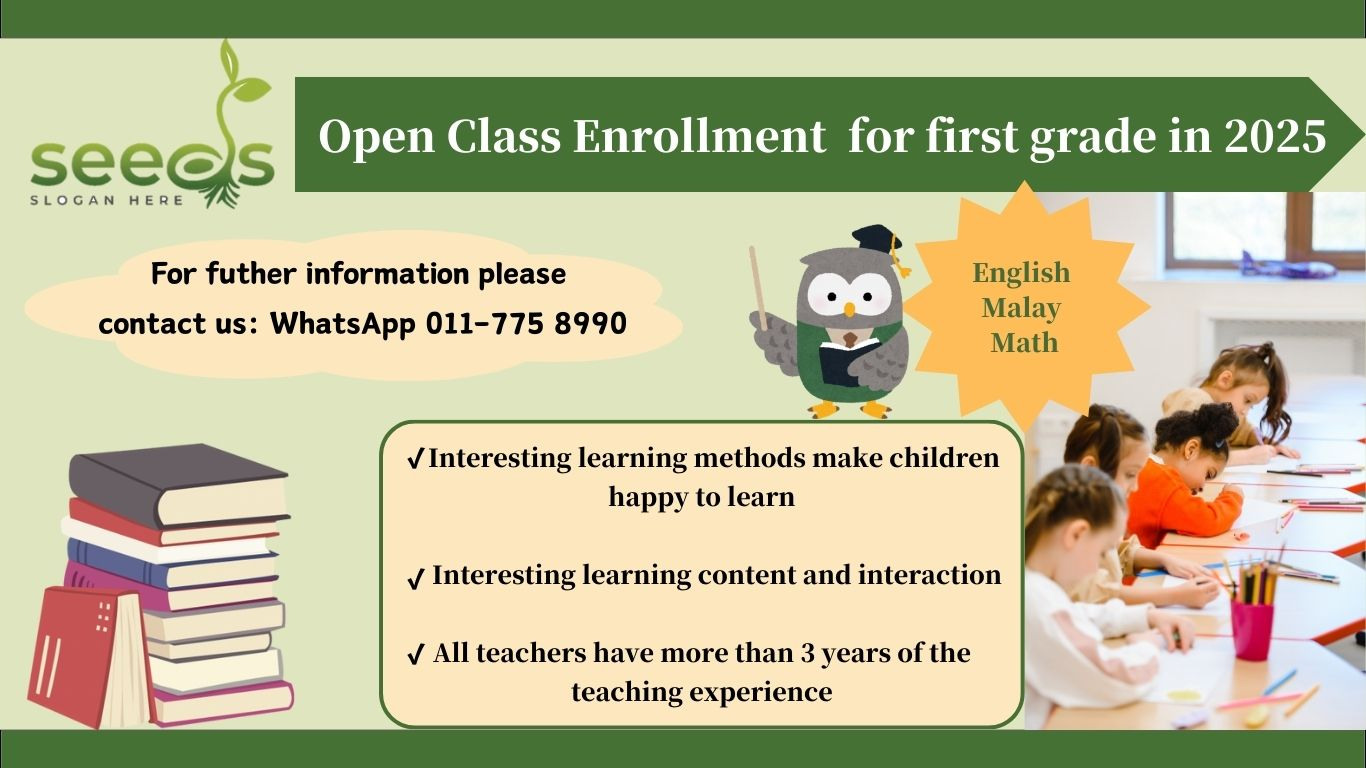
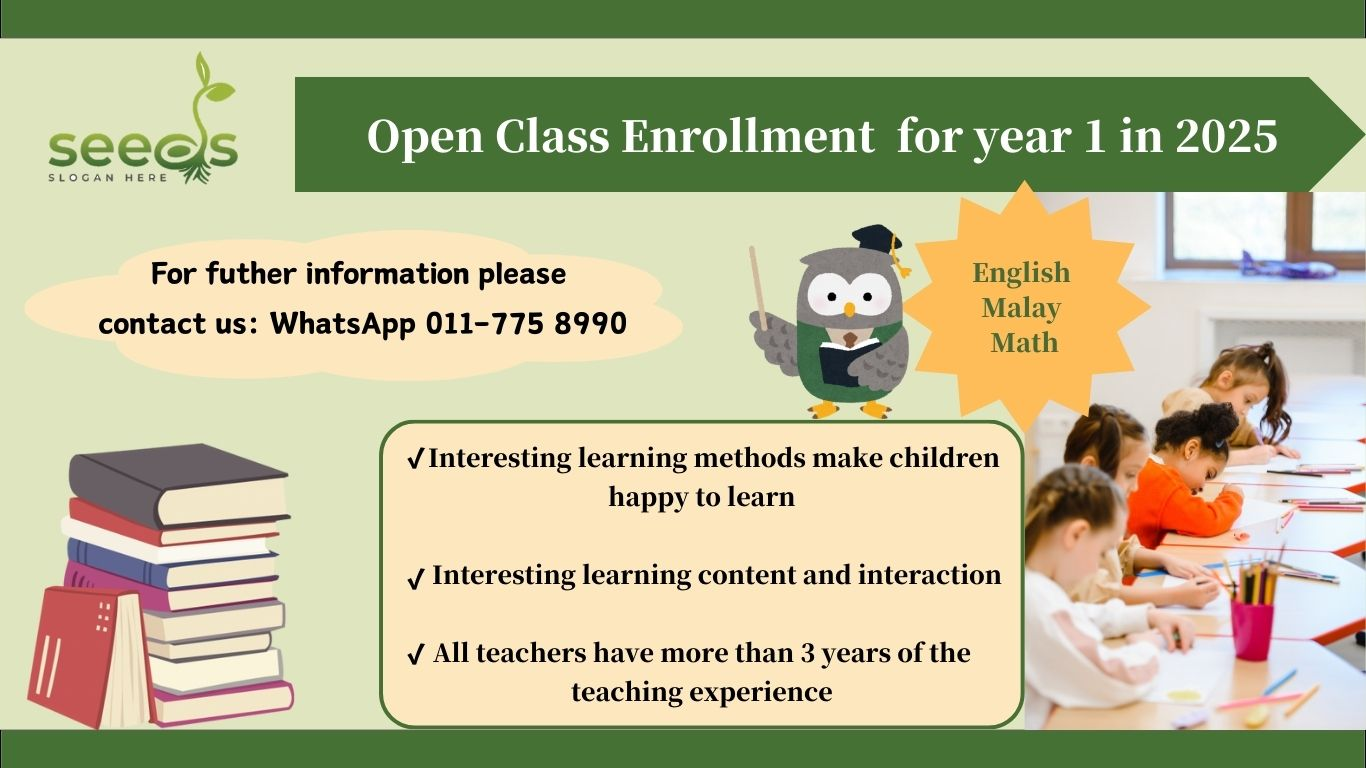
2

Changed region(s): [[0.2152, 0.1562, 0.9839, 0.2188], [0.0, 0.0625, 0.2152, 0.2812]]

diff --git a/admin subject.html b/admin subject.html
@@ -184,66 +184,73 @@
         <table class="table table-striped">
           <thead>
             <tr>
-              <th>Subject</th>
               <th>Subject ID</th>
-              <th>Grade</th>
+              <th>Subject</th>
+              <th>Year</th>
               <th>Price</th>
+              <th>Actions</th> 
             </tr>
           </thead>
           <tbody>
             <tr>
-              <td>Math</td>
               <td>11132</td>
-              <td>Grade 1 </td>
+              <td>Math</td>
+              <td>Year 1 </td>
               <td>RM 85</td>
               <td>
-                <button class="btn btn-danger btn-sm">Delete</button>
+                <i class="fas fa-edit text-warning edit-btn" style="cursor:pointer;"></i>
+                <i class="fas fa-trash-alt text-danger delete-btn ms-2" style="cursor:pointer;"></i>
               </td>
             </tr>
             <tr>
-                <td>English</td>
                 <td>11245</td>
-                <td>Grade 1 </td>
+                <td>English</td>
+                <td>Year 1 </td>
                 <td>RM 85</td>
-              <td>
-                <button class="btn btn-danger btn-sm">Delete</button>
-              </td>
+                <td>
+                  <i class="fas fa-edit text-warning edit-btn" style="cursor:pointer;"></i>
+                  <i class="fas fa-trash-alt text-danger delete-btn ms-2" style="cursor:pointer;"></i>
+                </td>
             </tr>
             <tr>
-                <td>Malay</td>
                 <td>11351</td>
-                <td>Grade 1 </td>
+                <td>Malay</td>
+                <td>Year 1 </td>
                 <td>RM 85</td>
-              <td>
-                <button class="btn btn-danger btn-sm">Delete</button>
-              </td>
+                <td>
+                  <i class="fas fa-edit text-warning edit-btn" style="cursor:pointer;"></i>
+                  <i class="fas fa-trash-alt text-danger delete-btn ms-2" style="cursor:pointer;"></i>
+                </td>
             </tr>
             <tr>
                 <tr>
-                    <td>Math 2</td>
                     <td>22134</td>
-                    <td>Grade 2 </td>
+                    <td>Math 2</td>
+                    <td>Year 2 </td>
                     <td>RM 85</td>
                     <td>
-                        <button class="btn btn-danger btn-sm">Delete</button>
+                      <i class="fas fa-edit text-warning edit-btn" style="cursor:pointer;"></i>
+                      <i class="fas fa-trash-alt text-danger delete-btn ms-2" style="cursor:pointer;"></i>
                     </td>
                 </tr>
                 <tr>
-                    <td>English 2</td>
                     <td>22534</td>
-                    <td>Grade 2 </td>
+                    <td>English 2</td>
+                    <td>Year 2 </td>
                     <td>RM 85</td>
                     <td>
-                        <button class="btn btn-danger btn-sm">Delete</button>
+                      <i class="fas fa-edit text-warning edit-btn" style="cursor:pointer;"></i>
+                      <i class="fas fa-trash-alt text-danger delete-btn ms-2" style="cursor:pointer;"></i>
                     </td>
                 </tr>
                 <tr>
-                    <td>Malay 2</td>
                     <td>22345</td>
-                    <td>Grade 2 </td>
+                    <td>Malay 2</td>
+                    <td>Year 2 </td>
                     <td>RM 85</td>
                     <td>
-                        <button class="btn btn-danger btn-sm">Delete</button>
+                      <i class="fas fa-edit text-warning edit-btn" style="cursor:pointer;"></i>
+                      <i class="fas fa-trash-alt text-danger delete-btn ms-2" style="cursor:pointer;"></i>
                     </td>
                 </tr>
                 
@@ -257,14 +264,14 @@
   <!-- The Modal -->
 <div id="addSubjectModal" class="modal">
     <div class="modal-content">
-        <span class="close">&times;</span>
+        <span class="close" style="position: absolute; top: 10px; right: 10px; font-size: 24px; cursor: pointer;">&times;</span>
         <form id="addSubjectForm">
-            <label for="subject">Subject:</label>
-            <input type="text" id="subject" name="subject">
             <label for="subjectID">Subject ID:</label>
             <input type="text" id="subjectID" name="subjectID">
-            <label for="grade">Grade:</label>
-            <input type="text" id="grade" name="grade">
+            <label for="subject">Subject:</label>
+            <input type="text" id="subject" name="subject">
+            <label for="year">Year:</label>
+            <input type="text" id="year" name="year">
             <label for="price">Price:</label>
             <input type="text" id="price" name="price">
             <input type="submit" value="Add Subject">

diff --git a/admin class.html b/admin class.html
@@ -184,18 +184,18 @@
         <table class="table table-striped">
           <thead>
             <tr>
-              <th>Class ID</th>
               <th>Subject ID</th>
+              <th>Class ID</th>
               <th>Day</th>
               <th>Time</th>
               <th>Teacher</th>
-              <th>Num.Student</th>
+              <th>Capacity</th>
             </tr>
           </thead>
           <tbody>
             <tr>
-              <td>Eng5710</td>
               <td>11245</td>
+              <td>Eng5710</td>
               <td>Monday</td>
               <td>2:30pm - 4:30pm</td>
               <td>Mr.John</td>
@@ -205,8 +205,8 @@
               </td>
             </tr>
             <tr>
-              <td>Mly7610</td>
               <td>11351</td>
+              <td>Mly7610</td>
               <td>Tuesday</td>
               <td>2:30pm - 4:30pm</td>
               <td>Ms.Lily</td>
@@ -216,8 +216,8 @@
               </td>
             </tr>
             <tr>
-              <td>Mat8710</td>
               <td>11132</td>
+              <td>Mat8710</td>
               <td>Wednesday</td>
               <td>2:30pm - 4:30pm</td>
               <td>Mr.David</td>
@@ -228,8 +228,8 @@
             </tr>
             <tr>
                 <tr>
-                    <td>Eng5720</td>
                     <td>22534</td>
+                    <td>Eng5720</td>
                     <td>Monday</td>
                     <td>5:00pm - 7:00pm</td>
                     <td>Mr.John</td>
@@ -239,8 +239,8 @@
                     </td>
                 </tr>
                 <tr>
-                    <td>Mly7620</td>
                     <td>22345</td>
+                    <td>Mly7620</td>
                     <td>Tuesday</td>
                     <td>5:00pm - 7:00pm</td>
                     <td>Ms.Lily</td>
@@ -250,8 +250,8 @@
                     </td>
                 </tr>
                 <tr>
-                    <td>Mat8720</td>
                     <td>22134</td>
+                    <td>Mat8720</td>
                     <td>Wednesday</td>
                     <td>5:00pm - 7:00pm</td>
                     <td>Mr.David</td>
@@ -271,19 +271,19 @@
   <!-- The Modal -->
 <div id="addClassModal" class="modal">
     <div class="modal-content">
-        <span class="close">&times;</span>
+        <span class="close" style="position: absolute; top: 10px; right: 10px; font-size: 24px; cursor: pointer;">&times;</span>
         <form id="addClassForm">
-            <label for="classid">Class ID:</label>
-            <input type="text" id="classid" name="classid">
             <label for="subjectid">Subject ID:</label>
             <input type="text" id="subjectid" name="subjectid">
+            <label for="classid">Class ID:</label>
+            <input type="text" id="classid" name="classid">
             <label for="day">Day:</label>
             <input type="text" id="day" name="day">
             <label for="time">Time:</label>
             <input type="text" id="time" name="time">
             <label for="teacher">Teacher:</label>
             <input type="text" id="teacher" name="">
-            <label for="enrollment">Num.Student:</label>
+            <label for="enrollment">Capasity:</label>
             <input type="text" id="enrollment" name="enrollment">
             <input type="submit" value="Add Class">
         </form>

diff --git a/profile.html b/profile.html
@@ -202,7 +202,7 @@
         <div class="profile-options"style="height: 300px">
             <a href="#" id="my-info-tab" class="active">My Information</a>
             <a href="#" id="children-info-tab">Children Information</a>
-            <a href="#" id="history-tab">History</a>
+            <a href="#" id="history-tab">Payment History</a>
         </div>
     
     
@@ -215,11 +215,29 @@
                         <input type="text" id="name" >
                     </div>
                     <div class="form-group">
+                        <label for="gender">Gender</label>
+                        <select id="gender" name="gender">
+                            <option value="" disabled selected>Select your gender</option>
+                            <option value="parent">Male</option>
+                            <option value="guardian">Female</option>
+                        </select>
+                    </div>
+
+                    <div class="form-group">
+                        <label for="ic-num">IC Number</label>
+                        <input type="text" id="ic-num" >
+                    </div>
+                    
+                    <div class="form-group">
                         <label for="email">Email</label>
                         <input type="email" id="email">
                     </div>
                     <div class="form-group">
-                        <label for="phone-num">Phone Number</label>
+                        <label for="phone-num">Phone Number 1</label>
+                        <input type="text" id="phone-num" >
+                    </div>
+                    <div class="form-group">
+                        <label for="phone-num">Phone Number 2</label>
                         <input type="text" id="phone-num" >
                     </div>
                     <div class="form-group">
@@ -228,7 +246,6 @@
                             <option value="" disabled selected>Select Relationship With Children</option>
                             <option value="parent">Parent</option>
                             <option value="guardian">Guardian</option>
-                            <option value="other">Other</option>
                         </select>
                     </div>
                     <div class="form-group">
@@ -257,6 +274,7 @@
           
         <div class="profile-content" id="children-info-content">
             <h3>Children Information</h3>
+
             <form>
                 <div class="form-group">
                     <label for="name"> Name</label>
@@ -283,11 +301,11 @@
                     <input type="text" id="school">
                 </div>
                 <div class="form-group">
-                    <label for="grade">Grade</label>
+                    <label for="grade">Year</label>
                     <select id="grade" name="grade">
-                        <option value="" disabled selected>Grade</option>
-                        <option value="grade">Grade 1</option>
-                        <option value="grade">Grade 2</option>   
+                        <option value="" disabled selected>Year</option>
+                        <option value="grade">Year 1</option>
+                        <option value="grade">Year 2</option>   
                     </select>
                 </div>
                 <div class="form-group">

diff --git a/Index.html b/Index.html
@@ -31,6 +31,7 @@
     <link href="css/style.css" rel="stylesheet">
 
     <style>
+
         .grid-container {
             display: grid;
             grid-template-columns: repeat(3, 1fr);
@@ -138,13 +139,13 @@
     <!-- Header Start -->
     <div class="container-xxl py-5">
         <div class="container">
-            <div id="announcementCarousel" class="carousel slide" data-bs-ride="carousel">
+            <div id="announcementCarousel" class="carousel slide" data-bs-ride="carousel" >
                 <div class="carousel-inner">
                     <div class="carousel-item active">
-                        <img src="img/announcemant 1.jpg" class="d-block w-100" alt="Announcement 1">
+                        <img src="img/announcemant 1.jpg" class="d-block w-100" alt="Announcement 1"style="width: 25%; height: auto; margin: 0 auto;">
                     </div>
                     <div class="carousel-item">
-                        <img src="img/announcemant 2.jpg" class="d-block w-100" alt="Announcement 2">
+                        <img src="img/announcemant 2.jpg" class="d-block w-100" alt="Announcement 2"style="width: 25%; height: auto; margin: 0 auto;">
                     </div>
                    
                 </div>
